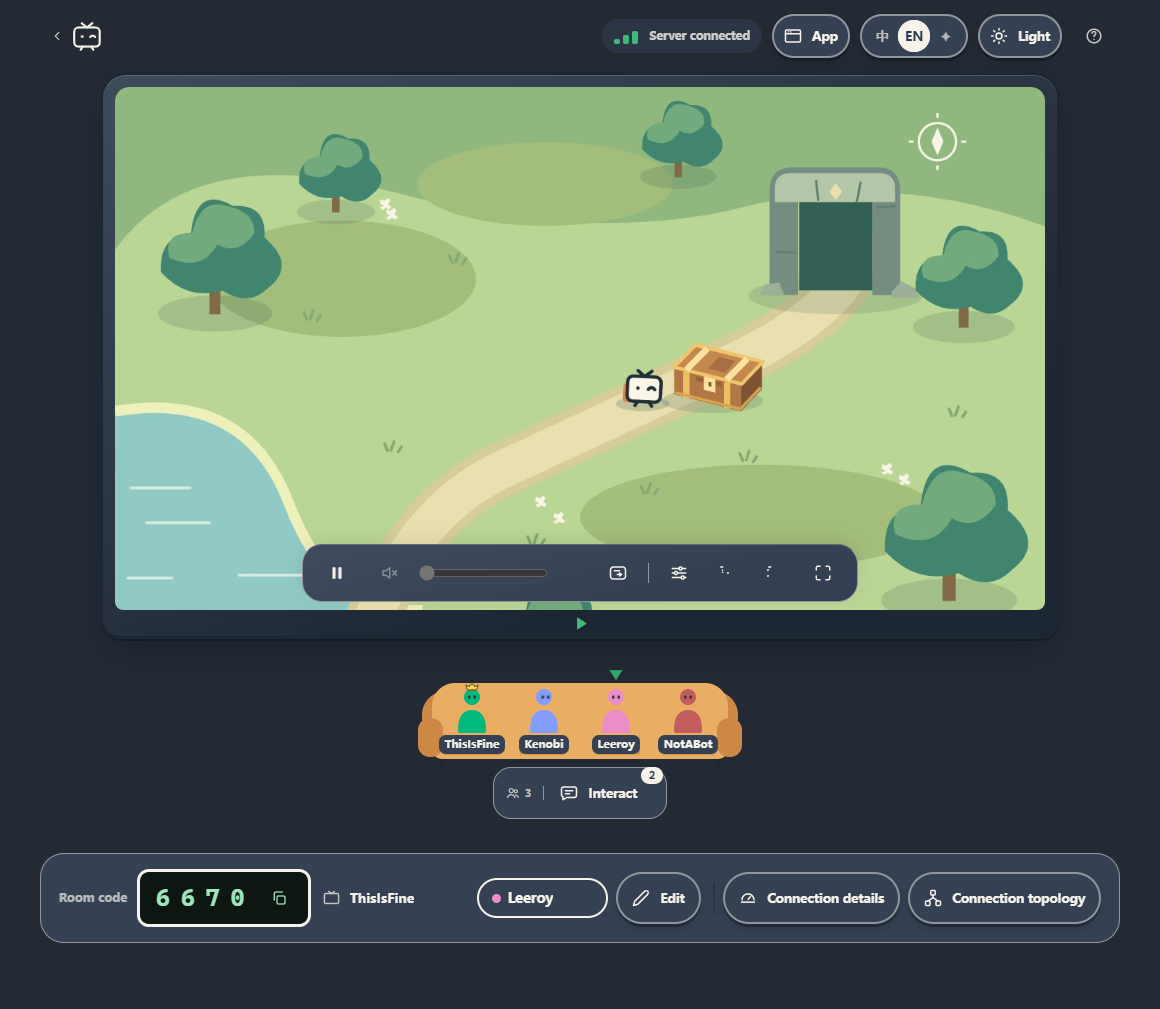
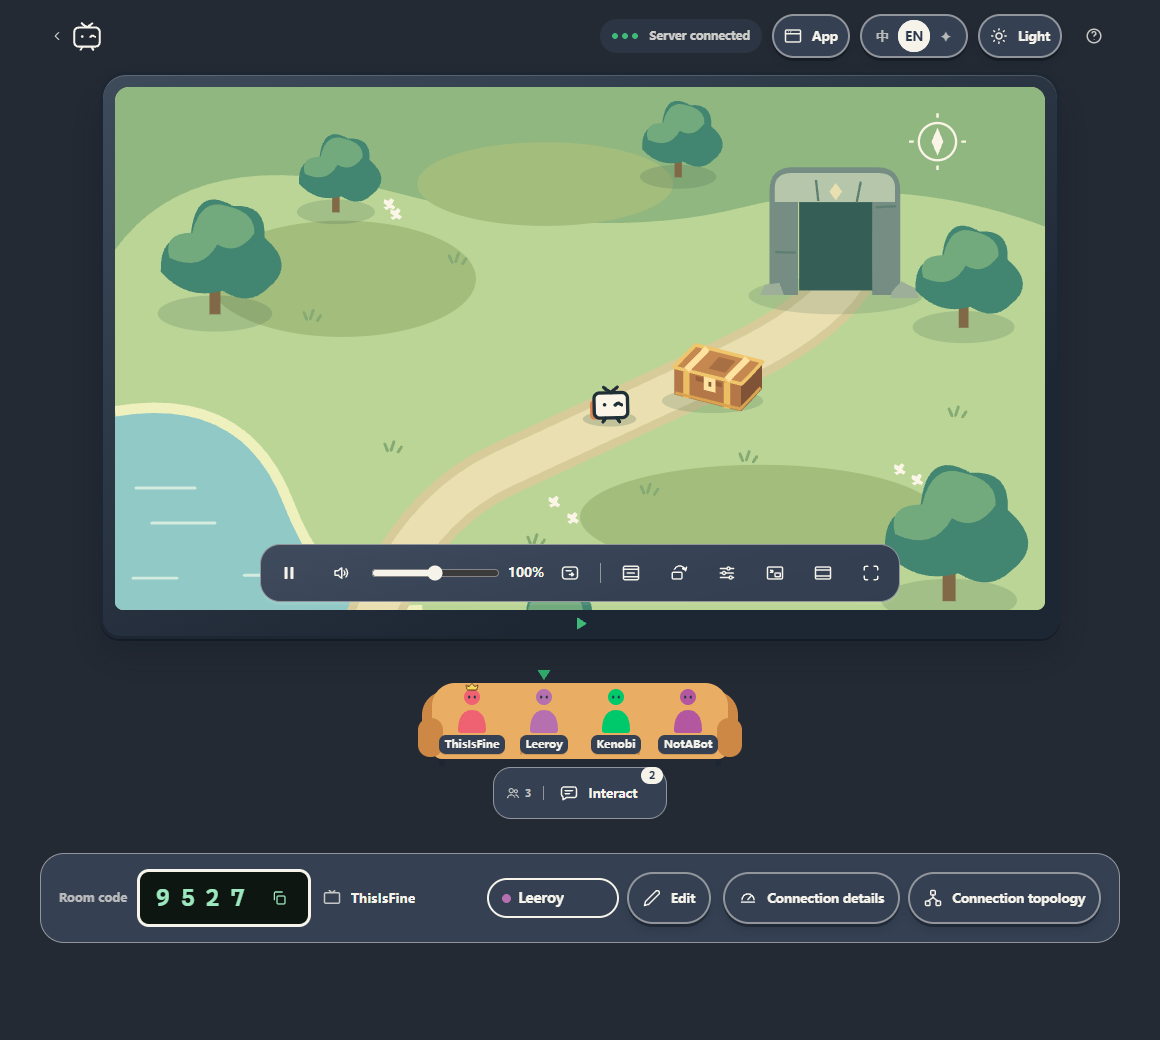
fix(ui): expose viewing controls and refresh documentation previews

diff --git a/src/client/pages/PlaybackPreviewPage.tsx b/src/client/pages/PlaybackPreviewPage.tsx
@@ -2,6 +2,7 @@ import { useEffect, useRef, useState } from "react";
 import type { VideoFit, VideoRotation } from "../media/video-geometry";
 import { AppHeader } from "../components/living/Header";
 import { PlaybackControls } from "../components/living/PlaybackControls";
+import { RemoteControl } from "../components/living/RemoteControl";
 import { RoomChatOverlay, RoomChatToggle } from "../components/living/RoomChatOverlay";
 import { StageOverlay, StageTv } from "../components/living/Stage";
 import { StatusIndicator } from "../components/living/StatusIndicator";
@@ -9,6 +10,7 @@ import { useTheaterMode } from "../components/living/use-theater-mode";
 import { STATUS_CATALOG } from "../ui/media-status";
 import { useCopy } from "../ui/copy";
 import { usePreviewInteractions } from "./use-preview-interactions";
+import { PreviewRemoteInput } from "./preview-remote-input";
 
 type PreviewRole = "host" | "viewer";
 
@@ -103,6 +105,8 @@ function PlaybackSample({ role }: { role: PreviewRole }) {
   const { lang, t } = useCopy();
   const english = lang === "en";
   const viewer = role === "viewer";
+  const [remote, setRemote] = useState(() => new URLSearchParams(location.search).get("remote") === "1");
+  const [remoteInput, setRemoteInput] = useState<PreviewRemoteInput | null>(null);
   const { session, receiveSample } = usePreviewInteractions(viewer);
   const videoRef = useRef<HTMLVideoElement>(null);
   const mediaRef = useRef<ReturnType<typeof testMedia> | null>(null);
@@ -142,6 +146,11 @@ function PlaybackSample({ role }: { role: PreviewRole }) {
     if (stream) play();
   }, [stream]);
   useEffect(() => () => mediaRef.current?.stop(), []);
+  useEffect(() => {
+    const input = new PreviewRemoteInput();
+    setRemoteInput(input);
+    return () => input.close();
+  }, []);
 
   return <main className={`lr-room${theaterMode ? " is-theater" : ""}`}>
       {!theaterMode ? <header style={{ margin: "20px 0" }}>
@@ -166,7 +175,16 @@ function PlaybackSample({ role }: { role: PreviewRole }) {
             session?.setOverlayEnabled(true);
             receiveSample({ kind: "chat", text: english ? "I'm here. Save me a seat!" : "来了，给我留个位置！" });
           }}>{english ? "Receive sample on-screen chat" : "模拟收到朋友弹幕"}</button>
+          {viewer && <button className="lr-btn" type="button" aria-pressed={remote} onClick={() => {
+            const url = new URL(location.href);
+            if (remote) url.searchParams.delete("remote"); else url.searchParams.set("remote", "1");
+            history.replaceState(history.state, "", url);
+            setRemote(value => !value);
+          }}>{english ? "Remote-control demo" : "远控演示"}</button>}
         </div>
+        {viewer && remote && <p>{english
+          ? "Start the picture, then select the mouse button to try local controls. Pinch to zoom in or back out to the original size. No input leaves this preview."
+          : "开启测试画面后，点击播控里的鼠标按钮试用。双指放大或缩回原始比例；操作只在此预览内模拟。"}</p>}
         {error ? <p role="alert">{error}</p> : null}
       </header> : null}
       <div className="lr-scene">
@@ -183,6 +201,8 @@ function PlaybackSample({ role }: { role: PreviewRole }) {
             canPlay={Boolean(stream) && !waiting} theaterMode={theaterMode} onPlay={play}
             onToggleTheater={() => setTheaterMode((value) => !value)}
             overlayAction={<RoomChatToggle session={session} />}
+            remoteActions={viewer && remote ? <RemoteControl channel={remoteInput} videoRef={videoRef}
+              available={Boolean(stream) && !waiting} pictureFit={pictureFit} pictureRotation={pictureRotation} /> : undefined}
             onReconnect={viewer ? () => start(hasAudio) : undefined} reconnectAvailable={viewer && Boolean(stream)} />
         </StageTv>
       </div>

diff --git a/src/client/components/living/RemoteControl.tsx b/src/client/components/living/RemoteControl.tsx
@@ -33,7 +33,6 @@ export function RemoteControl({ channel, videoRef, available, pictureFit, pictur
   const [keyboardDocument, setKeyboardDocument] = useState<Document | null>(null);
   const keyboardDetached = Boolean(keyboardDocument && keyboardDocument !== document);
   const [touch, setTouch] = useState(false);
-  const [zoomed, setZoomed] = useState(false);
   const [releaseKey, setReleaseKey] = useState(() => readRoomPreferences().remoteReleaseKey);
   const session = useRef<RemoteInputSession | null>(null);
   const surface = useRef<HTMLDivElement | null>(null);
@@ -90,8 +89,7 @@ export function RemoteControl({ channel, videoRef, available, pictureFit, pictur
       cursor.current.style.left = `${picture.left - rect.left + position.x * picture.width}px`;
       cursor.current.style.top = `${picture.top - rect.top + position.y * picture.height}px`;
     };
-    const view = new RemoteViewport(video, element, zoomed => {
-      setZoomed(zoomed);
+    const view = new RemoteViewport(video, element, () => {
       current.position = view.visiblePosition(current.position);
       updateCursor();
     });
@@ -315,10 +313,6 @@ export function RemoteControl({ channel, videoRef, available, pictureFit, pictur
         <svg ref={cursor} className="lr-remote-touch-cursor" viewBox="0 0 24 28" aria-hidden="true" style={{ display: touch ? undefined : "none" }}>
           <path d="M2 2v21l6-6 5 9 4-2-5-9h9Z" />
         </svg>
-      </div>}
-      {controlled && zoomed && <div className="lr-remote-zoom">
-        <button type="button" className="lr-chip" aria-label={t("remote.resetZoom")}
-          onClick={() => { reset(); viewport.current?.reset(); surface.current?.focus({ preventScroll: true }); }}>1×</button>
       </div>}
       {active && keyboardOpen && <RemoteKeyboard input={input} touch={touchControls} platform={state.platform}
         releaseKey={releaseKey} onReleaseKeyChange={key => { setReleaseKey(key); saveRoomPreferences({ remoteReleaseKey: key }); }}

diff --git a/src/client/components/living/ViewerPlaybackSettings.tsx b/src/client/components/living/ViewerPlaybackSettings.tsx
@@ -3,7 +3,7 @@ import type { ViewerRoutePreference } from "../../../shared/protocol";
 import type { VideoFit, VideoRotation } from "../../media/video-geometry";
 import { useCopy } from "../../ui/copy";
 import { Glyph } from "../../ui/icons";
-import { Btn, Cap, Chip, Pill, RowGroup, SwitchItem } from "./primitives";
+import { Cap, Chip, Pill, RowGroup, SwitchItem } from "./primitives";
 
 export interface ViewerPlaybackSettingsProps {
   pictureFit: VideoFit;
@@ -28,7 +28,7 @@ export interface ViewerPlaybackSettingsProps {
 }
 
 // Local display and connection intent; media and routing keep their owners.
-export function ViewerPlaybackSettings({ pictureFit, setPictureFit, pictureRotation, setPictureRotation, route, relayVolunteer, displayActions, reconnect }: ViewerPlaybackSettingsProps & {
+export function ViewerPlaybackSettings({ pictureFit, setPictureFit, route, relayVolunteer, displayActions, reconnect }: ViewerPlaybackSettingsProps & {
   displayActions: ReactNode; reconnect: ReactNode;
 }) {
   const { t, vis } = useCopy();
@@ -39,9 +39,6 @@ export function ViewerPlaybackSettings({ pictureFit, setPictureFit, pictureRotat
     <section aria-label={t("playback.pictureFit")}>
       <div className="lr-viewer-settings-heading">
         <h3><Glyph name="tv" size={17} /><span className={vis ? "visually-hidden" : undefined}>{t("playback.pictureFit")}</span></h3>
-        <Btn icon="rotatePicture" title="playback.rotation" cap="playback.rotation" size="dense"
-          hint="hint-picture-rotation" hintText="playback.rotationHint" pressed={pictureRotation !== 0}
-          onClick={() => setPictureRotation(pictureRotation === 0 ? 90 : 0)} />
       </div>
       <RowGroup>{(["contain", "cover", "fill"] as const).map(fit => <Chip key={fit}
         selected={pictureFit === fit} title={t(`playback.fit.${fit}`)} hint={`hint-fit-${fit}`} onClick={() => setPictureFit(fit)}>

diff --git a/src/client/components/living/PlaybackControls.tsx b/src/client/components/living/PlaybackControls.tsx
@@ -171,6 +171,7 @@ export function PlaybackControlsView({
   const pipTitle = picture.failed ? "playback.pipFailed" : !picture.supported ? "playback.pipUnavailable"
     : picture.active ? "playback.exitPip" : !canPlay ? "playback.pipWaiting" : "playback.pip";
   const theaterTitle = theaterMode ? "viewer.theater.exit" : "viewer.theater";
+  const nextFit = settings?.pictureFit === "contain" ? "cover" : settings?.pictureFit === "cover" ? "fill" : "contain";
   const displayActions = (caption: boolean) => <>
     <Btn icon={picture.active ? "pipExit" : "pip"} draw="playback-pip" title={pipTitle}
       cap={caption ? (picture.active ? "playback.exitPip" : "playback.pip") : undefined} hintTone={picture.failed ? "bad" : undefined}
@@ -217,6 +218,15 @@ export function PlaybackControlsView({
       </span>
       {remoteActions}
       <span className="lr-playback-view">
+        {settings && <>
+          <span className="lr-playback-fit"><Btn
+            icon={settings.pictureFit === "contain" ? "fitContain" : settings.pictureFit === "cover" ? "fitCover" : "fitStretch"}
+            title={`playback.fit.${settings.pictureFit}`} hint={`hint-fit-${settings.pictureFit}`} hintText="playback.fitCycle"
+            onClick={() => settings.setPictureFit(nextFit)} /></span>
+          <Btn icon="rotatePicture" title="playback.rotation" hint="hint-picture-rotation" hintText="playback.rotationHint"
+            pressed={settings.pictureRotation !== 0}
+            onClick={() => settings.setPictureRotation(settings.pictureRotation === 0 ? 90 : 0)} />
+        </>}
         <PlaybackMore panel={menuRef} settings={settings} onReconnect={onReconnect} reconnectAvailable={reconnectAvailable}>
           {displayActions(true)}
         </PlaybackMore>

diff --git a/src/client/components/living/playback-controls.css b/src/client/components/living/playback-controls.css
@@ -57,7 +57,7 @@
 .lr-playback-level.is-boosted { color: var(--action-text); }
 .lr-playback > :is(.lr-remote-controls, .lr-playback-view) { display: inline-flex; align-items: center; flex: none; gap: 4px; }
 .lr-playback > :is(.lr-remote-controls, .lr-playback-view)::before { content: ""; flex: none; width: 1px; height: 20px; margin-right: 4px; background: var(--control-edge); }
-.lr-playback-secondary { display: inline-flex; align-items: center; gap: inherit; }
+.lr-playback-secondary, .lr-playback-fit { display: inline-flex; align-items: center; gap: inherit; }
 .lr-playback-more { display: inline-flex; }
 .lr-playback-menu { position: fixed; inset: auto; margin: 0; padding: 8px; max-width: calc(100vw - 16px); overflow: auto; overscroll-behavior: contain; }
 .lr-playback-menu:is(:popover-open, .\:popover-open) { display: grid; gap: 6px; animation: lr-language-open 180ms var(--spring); }
@@ -99,6 +99,9 @@
   .lr-playback-volume { flex: 1; }
   .lr-playback > :is(.lr-remote-controls, .lr-playback-view) { gap: 2px; }
   .lr-playback > :is(.lr-remote-controls, .lr-playback-view)::before { margin-right: 0; }
+  /* During remote input, keep keyboard, rotation and fullscreen within reach.
+     The explicit fit choices remain in settings when the row is this narrow. */
+  .lr-playback:has(.lr-remote-controls) .lr-playback-fit { display: none; }
 }
 @media (prefers-reduced-motion: reduce) {
   .lr-playback, .lr-playback .lr-btn, .lr-playback-reveal, .lr-playback-reveal > svg { transition: none; }

diff --git a/src/client/pages/preview-remote-input.ts b/src/client/pages/preview-remote-input.ts
@@ -1,0 +1,26 @@
+import type { InputTransport } from "../remote-control/input-route";
+import type { RemoteInputState } from "../remote-control/protocol";
+
+// Local fixture for the real Viewer controls. Input never reaches an App or OS.
+export class PreviewRemoteInput extends EventTarget implements InputTransport {
+  readyState: RTCDataChannelState = "open";
+  bufferedAmount = 0;
+  private state: RemoteInputState = { state: "ready", mode: "room", platform: "windows" };
+
+  send(data: unknown): void {
+    const event = JSON.parse(String(data));
+    if (event.type === "request") {
+      this.state = { state: "active", mode: "room", platform: "windows", intent: event.intent, grant: "1".repeat(64) };
+    } else if (event.type === "release") {
+      this.state = { state: "ready", mode: "room", platform: "windows" };
+    } else if (event.type !== "sync") return;
+    queueMicrotask(() => {
+      if (this.readyState === "open") this.dispatchEvent(new MessageEvent("message", { data: JSON.stringify(this.state) }));
+    });
+  }
+
+  close(): void {
+    this.readyState = "closed";
+    this.dispatchEvent(new Event("close"));
+  }
+}

diff --git a/src/client/locales/en.ts b/src/client/locales/en.ts
@@ -33,7 +33,6 @@ export const en: Record<CopyKey, string> = {
   "remote.textHelp": "Enter adds a new line. The button types at the remote cursor.",
   "remote.textTooLong": "Split this into smaller sections (up to 2 KB each).",
   "remote.touchHelp": "Swipe to move · Tap to click · Hold to drag. Two fingers: tap to right-click, swipe to scroll. Pinch to zoom; swipe with two fingers to pan when zoomed.",
-  "remote.resetZoom": "Reset picture zoom",
   "remote.key.Escape": "Escape",
   "remote.key.Tab": "Tab",
   "remote.key.ArrowLeft": "Left arrow",
@@ -104,6 +103,7 @@ export const en: Record<CopyKey, string> = {
   "playback.overlay": "On-screen chat",
   "playback.more": "Playback settings",
   "playback.pictureFit": "Picture fit",
+  "playback.fitCycle": "Switch between Fit, Fill and Stretch. Only changes your view.",
   "playback.rotation": "Rotate picture",
   "playback.rotationHint": "Switch the page's picture between landscape and portrait without device auto-rotation.",
   "playback.connection": "Connection",

diff --git a/src/client/components/living/remote-control.css b/src/client/components/living/remote-control.css
@@ -45,8 +45,6 @@
 .lr-remote-shortcut { margin-block: 12px; text-align: start; }
 .lr-remote-touch-cursor { position: absolute; width: 22px; height: 26px; left: 50%; top: 50%; pointer-events: none; filter: drop-shadow(0 1px 2px #0008); }
 .lr-remote-touch-cursor path { fill: #fff; stroke: #22313e; stroke-width: 1.5; stroke-linejoin: round; }
-.lr-remote-zoom { grid-area: 1 / 1 / 2 / 2; z-index: 4; align-self: start; justify-self: end; padding: 8px; }
-.lr-remote-zoom .lr-chip { display: grid; place-items: center; width: 44px; height: 40px; padding: 0; border-width: 1px; background: var(--paper); font: 600 13px var(--mono); letter-spacing: 0; }
 .lr-remote-game-mouse { display: flex; justify-content: center; margin-top: 8px; }
 :is(.lr-remote-keyboard, .lr-remote-password) { grid-area: 3 / 1; z-index: 4; padding: 10px 12px 12px; background: var(--paper); color: var(--ink); border-top: 1px solid var(--control-edge); }
 :is(.lr-remote-keyboard, .lr-remote-password) .lr-input { padding: 0 10px; }

diff --git a/src/client/locales/zh.ts b/src/client/locales/zh.ts
@@ -33,7 +33,6 @@ export const zh = {
   "remote.textHelp": "回车可换行；点击按钮后输入到对方当前选中的位置。",
   "remote.textTooLong": "内容较长，请分段输入（每次最多 2 KB）。",
   "remote.touchHelp": "滑动移动 · 轻点点击 · 长按拖动。双指轻点右击、滑动滚动；捏合放大后，双指移动画面。",
-  "remote.resetZoom": "还原画面大小",
   "remote.key.Escape": "退出键",
   "remote.key.Tab": "制表键",
   "remote.key.ArrowLeft": "向左",
@@ -104,6 +103,7 @@ export const zh = {
   "playback.overlay": "弹幕",
   "playback.more": "播放设置",
   "playback.pictureFit": "画面显示",
+  "playback.fitCycle": "依次切换完整显示、等比铺满与拉伸铺满，只影响自己的画面。",
   "playback.rotation": "横竖切换",
   "playback.rotationHint": "网页画面横竖切换，无需开启手机自动旋转。",
   "playback.connection": "连接",

diff --git a/src/client/remote-control/viewport.ts b/src/client/remote-control/viewport.ts
@@ -11,7 +11,7 @@ export class RemoteViewport {
   constructor(
     private readonly video: HTMLVideoElement,
     private readonly surface: HTMLElement,
-    private readonly changed: (zoomed: boolean) => void,
+    private readonly changed: () => void,
   ) {}
 
   transform(from: Point, to: Point, ratio: number): void {
@@ -48,7 +48,7 @@ export class RemoteViewport {
       (1 - Math.max(...corners.map(point => point.y))) * box.height,
       Math.min(...corners.map(point => point.x)) * box.width];
     style.clipPath = `inset(${insets.map(value => `${value}px`).join(" ")})`;
-    this.changed(this.scale > 1);
+    this.changed();
   }
 
   visiblePosition(position: Point): Point {
@@ -70,6 +70,6 @@ export class RemoteViewport {
     this.offset = { x: 0, y: 0 };
     this.video.style.transform = "";
     this.video.style.clipPath = "";
-    this.changed(false);
+    this.changed();
   }
 }

diff --git a/site/film/ui/main.tsx b/site/film/ui/main.tsx
@@ -235,6 +235,9 @@ function Screen({ shot }: { shot: Shot }) {
                 picture={{ supported: true, active: false, failed: false, toggle: async () => {} }}
                 togglePlayback={noop} toggleFullscreen={noop} toggleMute={noop} setLevel={noop}
                 onToggleTheater={noop} onReconnect={noop} reconnectAvailable
+                settings={{ pictureFit: "contain", setPictureFit: noop, pictureRotation: 0, setPictureRotation: noop,
+                  route: { preference: "auto", onChange: noop, sfuAvailable: true, sfuOnly: false, peerOnly: false,
+                    disabled: false, rejected: false } }}
                 overlayAction={<RoomChatToggle session={session} />} />}
               {shot === "picker" && (
                 <CaptureSourcePicker

diff --git a/site/docs/.vitepress/theme/style.css b/site/docs/.vitepress/theme/style.css
@@ -23,6 +23,7 @@
 .vp-doc a { text-underline-offset: 3px; }
 .vp-doc :is(p, a) { overflow-wrap: anywhere; }
 .vp-doc td { overflow-wrap: break-word; }
+.vp-doc .guide-control-reference :is(th, td):first-child { min-width: 8em; }
 /* The same Markdown theme hints also work when the guides are read on GitHub. */
 html:not(.dark) .vp-doc img[src$="#gh-dark-mode-only"],
 html.dark .vp-doc img[src$="#gh-light-mode-only"] { display: none; }
